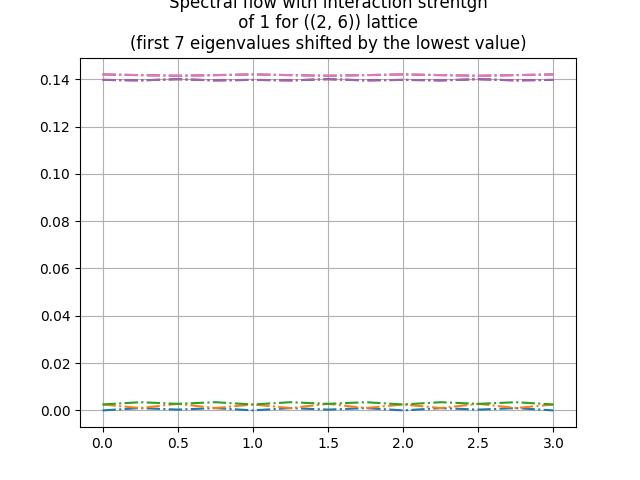
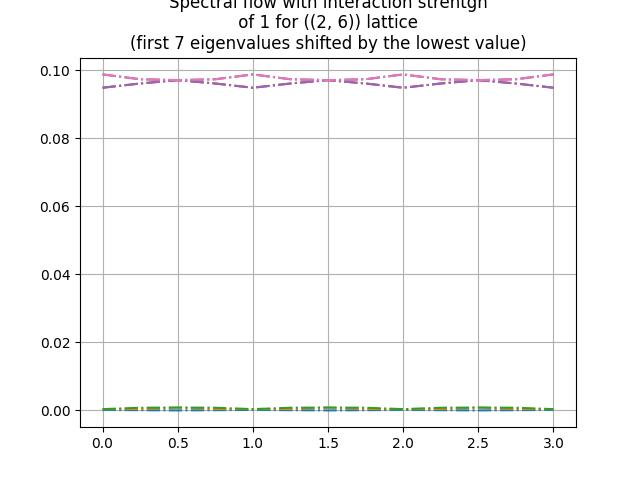
critical bug in NN

diff --git a/spetral_flow.py b/spetral_flow.py
@@ -7,9 +7,9 @@ import numpy as np
 Nx = 2
 Ny = 6
 
-for interaction_strength in [0,0.1,1,10,100]:
-
-    phi_list = np.linspace(start=0,stop=3, num=12 + 1)
+for interaction_strength in [1e-1,1e-2,1e-3,1e-4]:
+    print(f"interaction strength = {interaction_strength}")
+    phi_list = np.linspace(start=0,stop=3, num=72 + 1)
     eigenvalues_list = []
     for i, phi in enumerate(phi_list):
         eigenvalues, eigenvectors = exact_diagnolization(Nx=Nx, Ny=Ny,phase_shift_y=phi * 2 * np.pi, interaction_strength=interaction_strength ,k=7, multi_process=False,multiprocess_func=multiprocess_map, save_result= False, show_result=False)
@@ -30,7 +30,6 @@ for interaction_strength in [0,0.1,1,10,100]:
     
     plt.title(f"Spectral flow with interaction strentgh\n of {interaction_strength} for ({Nx,Ny}) lattice \n(first 7 eigenvalues shifted by the lowest value)")
     plt.savefig(f"./results/spectral_flow/interaction_shift/Nx-{Nx}_Ny-{Ny}/1_interaction-{interaction_strength}.jpg")
-
 
 
     plt.figure()

diff --git a/load_matrix.py b/load_matrix.py
@@ -26,11 +26,10 @@ H_sb = build_H(Nx = Nx, Ny = Ny, band_energy = band_energy)
 NN = []
 for x in range(Nx):
     for y in range(Ny):
-        n1 = cite_2_cite_index(x = x, y = y, sublattice = 0, Ny = Ny)
-        for i in [0,1]:
-            for j in [0,1]:
-                n2 = cite_2_cite_index(x = (x - i) % Nx, y = (y - j) % Ny, sublattice = 1, Ny = Ny)
-                NN.append((n1,n2))
+        n1 = cite_2_cite_index(x=x, y=y, sublattice=0, Ny=Ny)
+        for delta_x,delta_y in [(0,0), (0,1), (-1,0), (-1,1)]:
+            n2 = cite_2_cite_index(x=(x + delta_x) % Nx, y=(y + delta_y) % Ny, sublattice=1, Ny=Ny)
+            NN.append((n1,n2))
 
 
 mps = Multi_particle_state(N = N, n = n)

diff --git a/exact_diagnolization.py b/exact_diagnolization.py
@@ -80,7 +80,7 @@ def exact_diagnolization(Nx, Ny, n = None, H_sb = None, band_energy = 1, interac
         for x in range(Nx):
             for y in range(Ny):
                 n1 = cite_2_cite_index(x=x, y=y, sublattice=0, Ny=Ny)
-                for delta_x,delta_y in [(0,0), (0,-1), (-1,0), (-1,-1)]:
+                for delta_x,delta_y in [(0,0), (0,1), (-1,0), (-1,1)]:
                     n2 = cite_2_cite_index(x=(x + delta_x) % Nx, y=(y + delta_y) % Ny, sublattice=1, Ny=Ny)
                     NN.append((n1,n2))
 

diff --git a/qiskit_simulation.py b/qiskit_simulation.py
@@ -107,7 +107,7 @@ def translation_invariant_ansatz(Nx, Ny, reps = 1, return_NN = False):
 
         # NN
         NN = []
-        for x_vector, y_vector in [(0,0), (0,1), (-1,0), (-1,-1)]:
+        for x_vector, y_vector in [(0,0), (0,1), (-1,0), (-1,1)]:
             NN_tmp, ansatz_tmp = entangle_2_cites(x_vector=x_vector,y_vector=y_vector,sublattice_vector=1,Nx=Nx,Ny=Ny, param_name = str(param_counter))
             NN += NN_tmp
             ansatz = ansatz.compose(ansatz_tmp, range(N))

diff --git a/jax_ansatz.py b/jax_ansatz.py
@@ -171,7 +171,7 @@ def create_ansatz_matrix(mps, lattice_shape):
     Nx, Ny, _ = lattice_shape
     n_sites = 2 * Nx * Ny
     state_size = len(mps.zero_vector())
-    bonds = [(0,0,1), (0,1,1), (-1,0,1), (-1,-1,1)]
+    bonds = [(0,0), (0,1), (-1,0), (-1,1)]
     symbols_list = []
     symbolic_matrix_list = []
 
